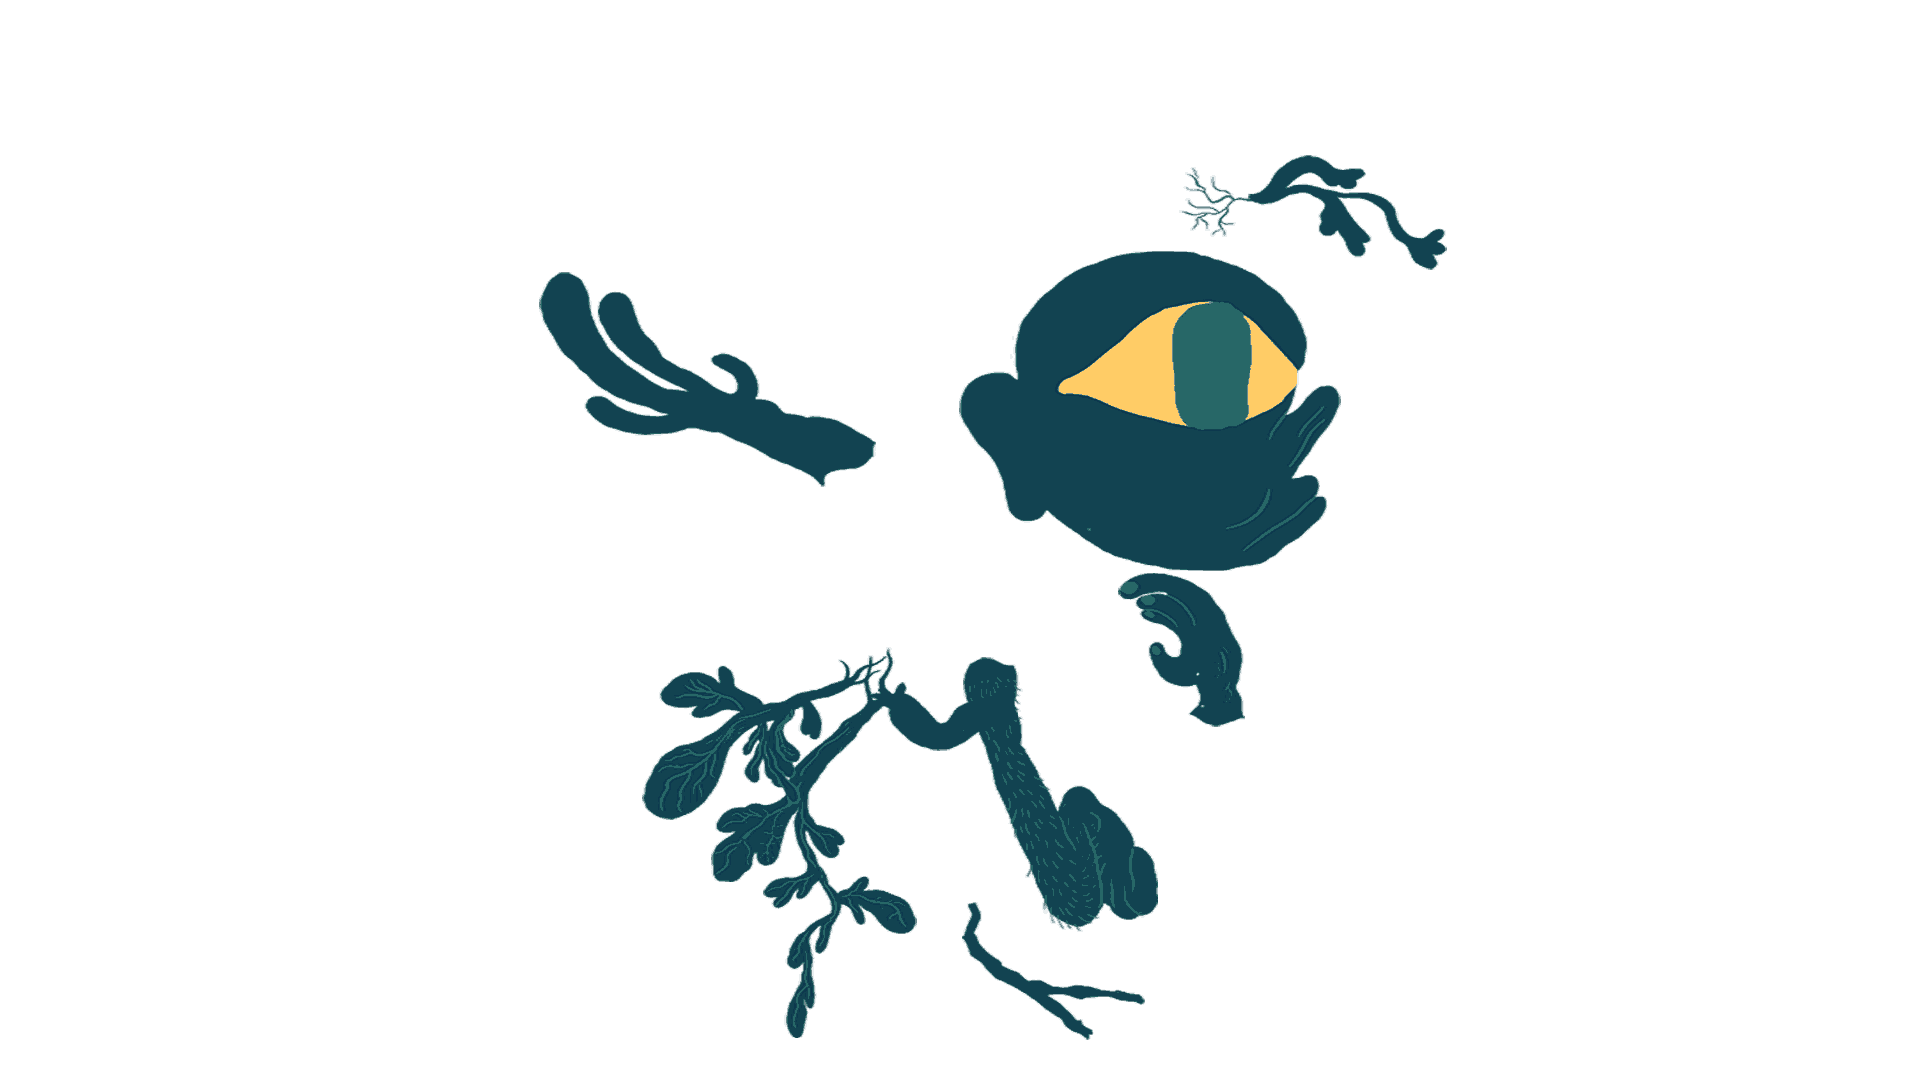
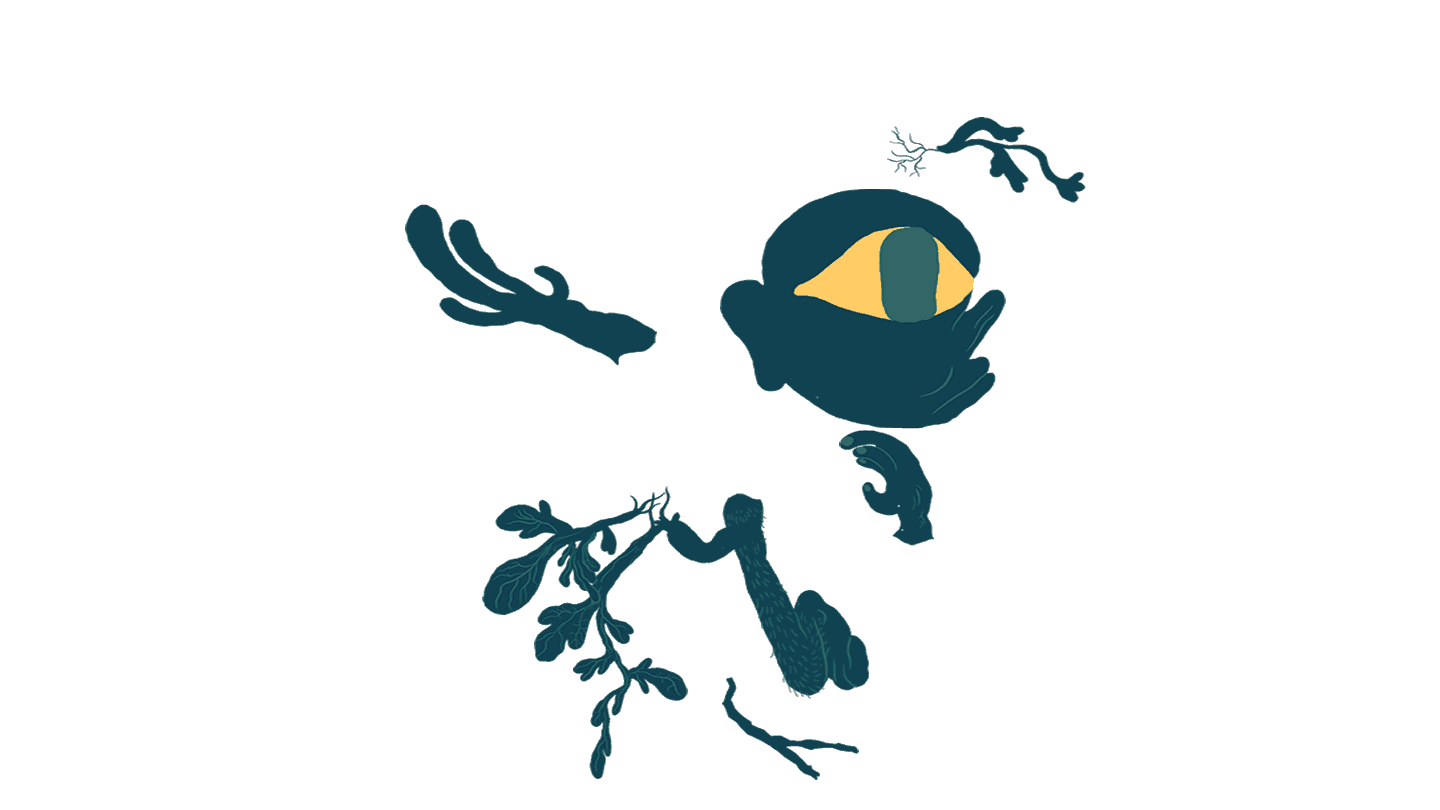
downsized images

diff --git a/js/sketch.js b/js/sketch.js
@@ -52,7 +52,7 @@ function preload() {
   layerC = loadImage('assets/GreenLayer.png');
   layerAr = loadImage('assets/OrangeLayer.png');
   layerGI = loadImage('assets/YellowLayer.png');
-  layerMain = loadImage('assets/LayerAll80.png');
+  layerMain = loadImage('assets/LayerAll.png');
   //icons
   iconA = loadImage('assets/rrIcon.png');
   iconR = loadImage('assets/bIcon.png');

diff --git a/style.css b/style.css
@@ -15,7 +15,7 @@ a{
   /* font-family: 'Cabin Sketch', cursive; */
 /* font-family: 'Londrina Shadow', cursive; */
 font-family: NAV;
-  font-weight: normal;
+  font-weight: bold;
   letter-spacing: 5px;
   text-decoration: none;
   color: black;
